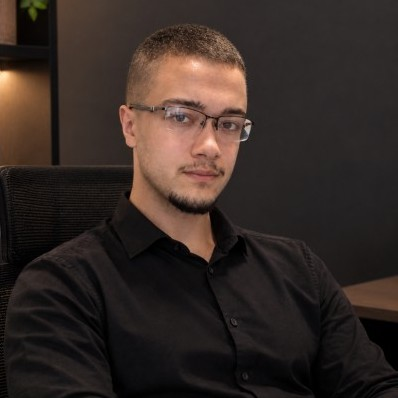
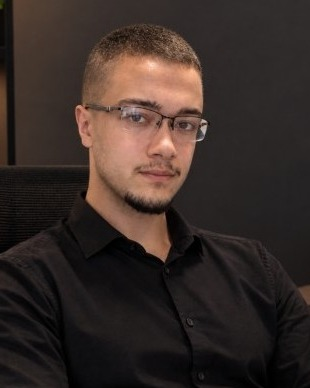
FTR-1907: crop the portrait tighter and give it more room

diff --git a/src/app/page.tsx b/src/app/page.tsx
@@ -24,8 +24,8 @@ export default function Home() {
             src={portrait}
             alt="Juan Costa"
             priority
-            sizes="(min-width: 640px) 200px, 88px"
-            className="order-1 h-[88px] w-[88px] rounded-[var(--radius-panel)] object-cover ring-1 ring-[var(--rule)] sm:order-2 sm:h-[200px] sm:w-[200px]"
+            sizes="(min-width: 640px) 232px, 104px"
+            className="order-1 h-[130px] w-[104px] rounded-[var(--radius-panel)] object-cover ring-1 ring-[var(--rule)] sm:order-2 sm:h-[290px] sm:w-[232px]"
           />
         </div>
 
